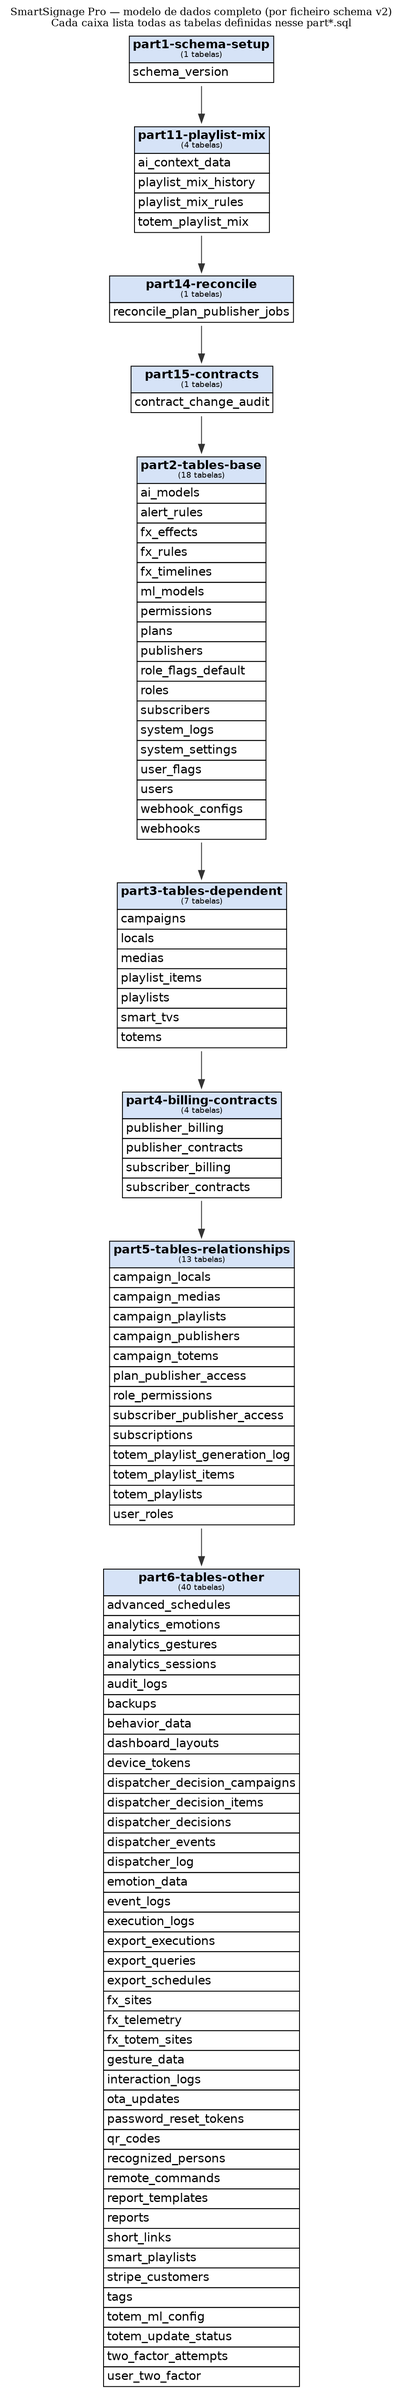
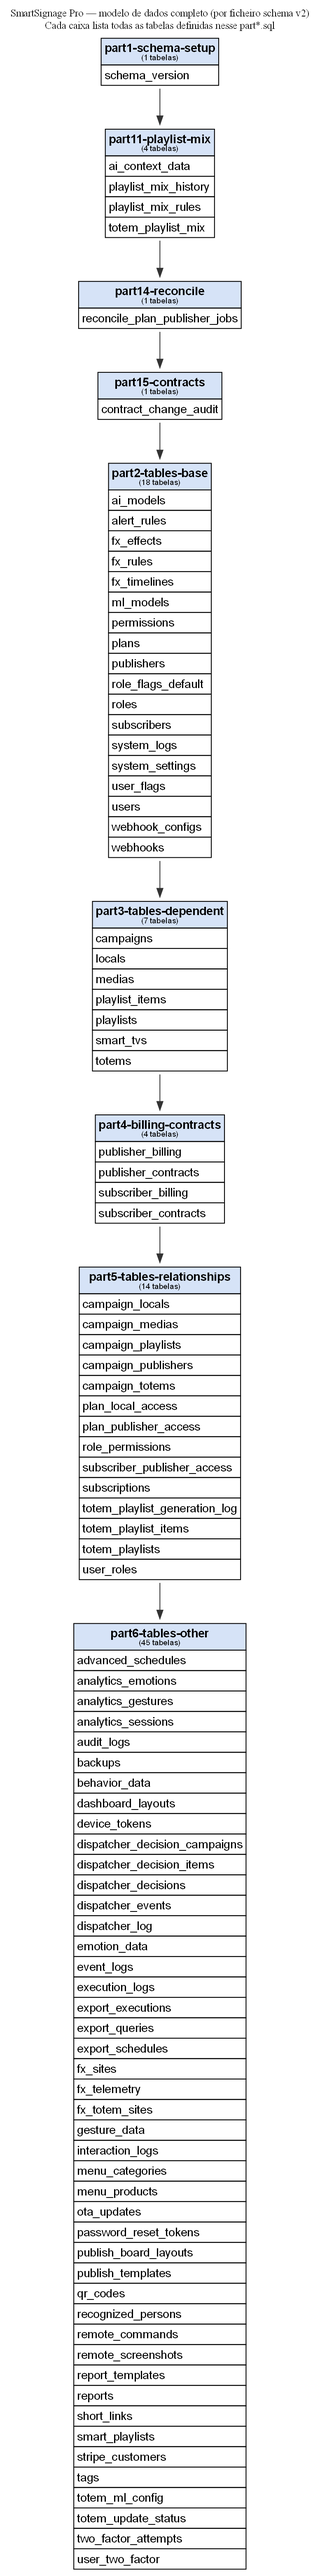
docs(er): atualiza modelo ER com controlo remoto e regenera PNG
Documenta player_settings/now_playing, remote_commands/screenshots e device_tokens; regenera diagramas a partir do schema v2.

diff --git a/scripts/generate-er-system-png.py b/scripts/generate-er-system-png.py
@@ -120,6 +120,14 @@ def write_detail_dot(clusters: dict[str, list[str]], table_to_part: dict[str, st
         ("totems", "totem_playlists"),
         ("totem_playlists", "totem_playlist_items"),
         ("totem_playlist_items", "medias"),
+        ("totems", "remote_commands"),
+        ("totems", "remote_screenshots"),
+        ("remote_commands", "remote_screenshots"),
+        ("users", "remote_commands"),
+        ("totems", "device_tokens"),
+        ("smart_tvs", "device_tokens"),
+        ("totems", "totem_update_status"),
+        ("ota_updates", "totem_update_status"),
         ("users", "user_roles"),
         ("user_roles", "roles"),
         ("roles", "role_permissions"),

diff --git a/docs/MODELO_ER_MIDIAS_SMART_TV_E_TOTENS.md b/docs/MODELO_ER_MIDIAS_SMART_TV_E_TOTENS.md
@@ -15,11 +15,12 @@ Alinha-se ao **schema definitivo** em `database/smartchannel-db-v2-refactored-pa
 |----------|-----------|
 | **Subscriber** | Dono das mídias, playlists e campanhas (`subscribers`). |
 | **Publisher** | Dono dos locais, totens e da infraestrutura física (`publishers`). |
-| **Totem** | Ponto de exibição / dispositivo de campo (`totems` → `locals` → `publishers`). |
+| **Totem** | Ponto de exibição / dispositivo de campo (`totems` → `locals` → `publishers`); espelho Player-AD em `player_settings` / `now_playing`. |
 | **Smart TV** | Ecrã ligado a um totem (relação **1 totem : N TVs**, `smart_tvs.totem_id`). |
 | **Mídia** | Ficheiro metadado em `medias` (sempre com `subscriber_id`). |
 | **Campanha** | Agrega conteúdo e regras de exibição (`campaigns`). |
 | **Playlist** | Lista ordenada de mídias (`playlists` + `playlist_items`). |
+| **Controlo remoto** | Comandos e capturas (`remote_commands`, `remote_screenshots`) + sessão do player (`device_tokens`). |
 
 O **dispatcher** escolhe campanhas elegíveis para um `totemId` e gera um **plano de reprodução** (JSON) consumido pelos players (`GET /api/player/dispatch`, ver `backend/src/routes/player.ts`).
 
@@ -49,8 +50,22 @@ Definidas em `database/smartchannel-db-v2-refactored-part5-tables-relationships.
 ### 2.3 Infraestrutura do publisher
 
 - **`locals`**: locais físicos do publisher.
-- **`totems`**: dispositivos por `local_id`.
-- **`smart_tvs`**: TVs associadas ao totem (`totem_id`), plataforma (`webOS`, `Tizen`, `Android TV`, …).
+- **`totems`**: dispositivos por `local_id`. Colunas relevantes para Player-AD / admin remota:
+  - `uin`, `device_id`, `status`, `last_heartbeat`
+  - **`player_settings`** (JSONB): espelho da config do player (`displayRotation`, `screenOrientation`, `kioskMode`, …)
+  - **`now_playing`** (JSONB): última mídia em reprodução reportada no heartbeat
+- **`smart_tvs`**: TVs associadas ao totem (`totem_id`), plataforma (`webOS`, `Tizen`, `Android TV`, …), `orientation` landscape/portrait.
+
+### 2.4 Controlo remoto, autenticação do player e OTA
+
+Definidas sobretudo em `database/smartchannel-db-v2-refactored-part6-tables-other.sql`:
+
+| Tabela | Função |
+|--------|--------|
+| **`remote_commands`** | Fila de comandos ao totem (`screenshot`, `apply_player_config`, `refresh_dispatch`, `purge_cache`, `restart_app`, …). |
+| **`remote_screenshots`** | Capturas de ecrã enviadas pelo Player-AD (`file_path`, opcionalmente ligadas a `command_id`). |
+| **`device_tokens`** | Token HMAC / sessão do player (`uin`, `device_id`, `platform`, heartbeat). |
+| **`ota_updates`** / **`totem_update_status`** | Pacotes OTA e estado de atualização por totem. |
 
 ---
 
@@ -76,10 +91,43 @@ erDiagram
   publishers ||--o{ locals : possui
   locals ||--o{ totems : possui
   totems ||--o{ smart_tvs : controla
+  totems ||--o{ totem_playlists : consolidada
+  totems ||--o{ remote_commands : recebe
+  totems ||--o{ remote_screenshots : captura
+  totems ||--o{ device_tokens : autentica
+  remote_commands ||--o{ remote_screenshots : gera
+  users ||--o{ remote_commands : cria
 
   campaigns }o--|| subscribers : pertence
   medias }o--|| subscribers : pertence
   playlists }o--|| subscribers : pertence
+
+  totems {
+    int totem_id PK
+    string uin
+    string device_id
+    jsonb player_settings
+    jsonb now_playing
+  }
+  remote_commands {
+    int command_id PK
+    int totem_id FK
+    string command_type
+    string status
+  }
+  remote_screenshots {
+    int id PK
+    int totem_id FK
+    int command_id FK
+    string file_path
+  }
+  device_tokens {
+    int device_token_id PK
+    int totem_id FK
+    string uin
+    string device_id
+    string token
+  }
 ```
 
 ---
@@ -118,26 +166,44 @@ Isto garante que campanhas com **só mídias diretas** ou **playlist + extras** 
 
 ---
 
-## 7. Leituras relacionadas
+## 7. Player-AD: orientação, config remota e screenshot
+
+Alinhado ao plano em [`PLANO-TOTEM-ORIENTACAO-CONFIG-REMOTA-SCREENSHOT.md`](./PLANO-TOTEM-ORIENTACAO-CONFIG-REMOTA-SCREENSHOT.md) e ao schema `totems` / `remote_*`:
+
+| Fluxo | Tabelas / campos |
+|-------|------------------|
+| Montagem do painel no player | Config local do app + espelho em `totems.player_settings` (`displayRotation` / `screenOrientation`) |
+| Comando remoto (config, sync, captura) | `remote_commands` (`apply_player_config`, `screenshot`, `refresh_dispatch`, …) |
+| Preview no painel web | `remote_screenshots` (ficheiro no storage do servidor) |
+| Presença / token | `device_tokens` + `totems.last_heartbeat` / `now_playing` |
+
+Defaults de kit de instalação (exemplo): `uin=T1000`, `deviceId=T1000-Exterminator` — ver `install-pendrive/config/exemplo-player-config.json`.
+
+---
+
+## 8. Leituras relacionadas
 
 | Documento | Tema |
 |-----------|------|
 | [`duas-formas-propaganda-chegar-ao-totem.md`](./duas-formas-propaganda-chegar-ao-totem.md) | Elegibilidade campanha ↔ totem |
 | [`cadastro-atrelar-campanha-totem.md`](./cadastro-atrelar-campanha-totem.md) | UI: abas Publicadores / Totens |
 | [`analise-dispatcher-midias-vazias-e-duplicados.md`](./analise-dispatcher-midias-vazias-e-duplicados.md) | Mix e listas vazias |
+| [`PLANO-TOTEM-ORIENTACAO-CONFIG-REMOTA-SCREENSHOT.md`](./PLANO-TOTEM-ORIENTACAO-CONFIG-REMOTA-SCREENSHOT.md) | Orientação, admin remota, screenshot |
+| [`platform/06-totemdigital-monousuario-er-e-fluxo.md`](./platform/06-totemdigital-monousuario-er-e-fluxo.md) | ER Pro vs TotemDigital monousuário |
 | [`INTEGRACAO_SCHEMA_PRINCIPAL.md`](./INTEGRACAO_SCHEMA_PRINCIPAL.md) | Política schema sem migrations paliativas |
 | [`README_INSTALACAO_SERVIDOR.md`](./README_INSTALACAO_SERVIDOR.md) | Instalação |
 | [`PORTAS_E_SERVICOS_EXCLUSIVOS.md`](./PORTAS_E_SERVICOS_EXCLUSIVOS.md) | Portas e serviços |
 
 ---
 
-## 8. Evolução e validação (v6)
+## 9. Evolução e validação (v6)
 
 - **Seeds / dados demo:** `database/carga-inicial-v6.sql`
 - **Validação pós-instalação:** `node database/validate-v6.js` (requer `pg`; pode usar `NODE_PATH` apontando para `backend/node_modules`)
+- **Regenerar PNG ER:** `python scripts/generate-er-system-png.py --detalhe` (requer Graphviz `dot`)
 
 Desenvolvimento: apenas árvore principal (`backend/`, `frontend/`, `database/`, `scripts/`). Cópias paralelas `ssp-clean` e `client_v2` foram removidas do repositório.
 
 ---
 
-**Última revisão:** abril de 2026.
+**Última revisão:** julho de 2026.

diff --git a/docs/platform/06-totemdigital-monousuario-er-e-fluxo.md b/docs/platform/06-totemdigital-monousuario-er-e-fluxo.md
@@ -11,7 +11,7 @@ Os diagramas Mermaid abaixo são **resumos conceituais**. Para **todas** as tabe
 - [SmartSignage-ER-sistema-completo.png](../diagrams/SmartSignage-ER-sistema-completo.png) — visão por ficheiros `part` (panorama).
 - [SmartSignage-ER-sistema-completo-detalhe.png](../diagrams/SmartSignage-ER-sistema-completo-detalhe.png) — um nó por tabela + parte das FKs (melhor com **zoom**).
 
-**TotemDigital no PNG:** concentre o zoom nos nós que fecham o ciclo operacional deste documento — por exemplo `totems`, `totem_playlists`, `totem_playlist_items`, `campaigns`, `campaign_totems`, `medias`, `playlists`, `playlist_items`, `locals`, `publishers`. Regeneração dos PNG: ver índice em [`docs/README.md`](../README.md) (secção “Diagramas (PNG)”).
+**TotemDigital no PNG:** concentre o zoom nos nós que fecham o ciclo operacional deste documento — por exemplo `totems`, `totem_playlists`, `totem_playlist_items`, `campaigns`, `campaign_totems`, `medias`, `playlists`, `playlist_items`, `locals`, `publishers`, e para admin remota/`Player-AD`: `remote_commands`, `remote_screenshots`, `device_tokens`. Regeneração dos PNG: ver índice em [`docs/README.md`](../README.md) (secção “Diagramas (PNG)”).
 
 ---
 
@@ -52,7 +52,10 @@ erDiagram
   TOTEMS {
     int id PK
     string uin
+    string device_id
     int local_id FK
+    jsonb player_settings
+    jsonb now_playing
   }
   CAMPAIGNS {
     int id PK
@@ -64,6 +67,18 @@ erDiagram
     int totem_id FK
     boolean is_active
   }
+  REMOTE_COMMANDS {
+    int command_id PK
+    int totem_id FK
+    string command_type
+  }
+  DEVICE_TOKENS {
+    int device_token_id PK
+    int totem_id FK
+    string token
+  }
+  TOTEMS ||--o{ REMOTE_COMMANDS : controlo
+  TOTEMS ||--o{ DEVICE_TOKENS : sessao
 ```
 
 ### 1.2 TotemDigital — monousuário (mesmo núcleo, menos superfície operacional)
@@ -85,7 +100,10 @@ erDiagram
   TOTEMS {
     int id PK
     string uin
+    string device_id
     int local_id FK
+    jsonb player_settings
+    jsonb now_playing
   }
   TOTEM_PLAYLISTS {
     int id PK
@@ -100,9 +118,15 @@ erDiagram
     int campaign_id FK
     int totem_id FK
   }
+  REMOTE_COMMANDS {
+    int command_id PK
+    int totem_id FK
+    string command_type
+  }
+  TOTEMS ||--o{ REMOTE_COMMANDS : screenshot_config
 ```
 
-**Leitura:** o diagrama “depois” **não** apaga tabelas Pro; resume o que o operador TotemDigital toca com frequência. Campanhas e mix continuam a ser a **origem rica de candidatos** quando usadas.
+**Leitura:** o diagrama “depois” **não** apaga tabelas Pro; resume o que o operador TotemDigital toca com frequência. Campanhas e mix continuam a ser a **origem rica de candidatos** quando usadas. Controlo remoto (`remote_commands` / `remote_screenshots`) e espelho `player_settings` suportam o Player-AD sem alterar o núcleo de dispatch.
 
 ---
 
@@ -178,8 +202,11 @@ sequenceDiagram
 |------|------|
 | Fallback servidor | `backend/src/services/dispatcherTotemService.ts` — campanha → `getFallbackPlanFromTotemPlaylist` (ou equivalente) — **sem** `getDefaultAdPlan` por disco |
 | Playlist por totem | Tabelas `totem_playlists`, `totem_playlist_items` |
+| Config / now playing | `totems.player_settings`, `totems.now_playing` (`part3`) |
+| Controlo remoto | `remote_commands`, `remote_screenshots`, `device_tokens` (`part6`) |
 | Seed monousuário | `database/carga-inicial-v6.sql` |
 | Modo compacto | Flags `TOTEMDIGITAL_COMPACT` (backend) e `REACT_APP_TOTEMDIGITAL_COMPACT` (frontend) para esconder superfície Pro e manter operação essencial |
+| Modelo ER mídias/totens | [`MODELO_ER_MIDIAS_SMART_TV_E_TOTENS.md`](../MODELO_ER_MIDIAS_SMART_TV_E_TOTENS.md) |
 
 ---
 

diff --git a/docs/PLANO-TOTEM-ORIENTACAO-CONFIG-REMOTA-SCREENSHOT.md b/docs/PLANO-TOTEM-ORIENTACAO-CONFIG-REMOTA-SCREENSHOT.md
@@ -10,7 +10,7 @@
 | Campo | Valor padrão |
 |-------|----------------|
 | `uin` | `T1000` |
-| `deviceId` (nome no painel) | `T1000 - Exterminator` |
+| `deviceId` (nome no painel) | `T1000-Exterminator` |
 | `allowPlaybackAudio` | `false` (áudio desligado) |
 | `batimentoCardiaco` | `15` (segundos) |
 | `displayRotation` | `0` (retrato) |
@@ -256,7 +256,7 @@ Histórico no **servidor** (quem / quando / versão pedida) pode ficar só em `r
 - [x] Config remota `config` / orientação na UI
 - [x] Now playing no heartbeat + chip no painel
 - [x] OTA stubs (`update` / `ota_rollback`) + pasta `files/OTA` (máx. 3 backups)
-- [ ] Defaults kit: `uin=T1000`, `deviceId=T1000 - Exterminator`, áudio off, heartbeat 15s
+- [ ] Defaults kit: `uin=T1000`, `deviceId=T1000-Exterminator`, áudio off, heartbeat 15s
 
 ---
 
@@ -268,4 +268,4 @@ Histórico no **servidor** (quem / quando / versão pedida) pode ficar só em `r
 
 ---
 
-*Última actualização: 2026-07-19 — defaults instalação T1000 / Exterminator / áudio off / heartbeat 15s; bake v3 + Player-AD; validar em hardware.*
+*Última actualização: 2026-07-21 — defaults instalação T1000 / T1000-Exterminator / áudio off / heartbeat 15s; bake v3 + Player-AD; modelo ER docs regenerados.*

diff --git a/docs/README.md b/docs/README.md
@@ -19,7 +19,7 @@ Regenerar: `python3 scripts/generate-er-system-png.py` ou com detalhe: `python3 
 
 | Documento | Descrição |
 |-----------|-----------|
-| [**MODELO_ER_MIDIAS_SMART_TV_E_TOTENS.md**](./MODELO_ER_MIDIAS_SMART_TV_E_TOTENS.md) | **Modelo ER** atual: `medias`, `campaigns`, `campaign_medias`, `campaign_playlists`, `totems`, `smart_tvs`, dispatch consolidado. |
+| [**MODELO_ER_MIDIAS_SMART_TV_E_TOTENS.md**](./MODELO_ER_MIDIAS_SMART_TV_E_TOTENS.md) | **Modelo ER** atual: `medias`, `campaigns`, `totems` (`player_settings`/`now_playing`), `remote_commands`/`remote_screenshots`, `device_tokens`, dispatch consolidado. |
 | [**duas-formas-propaganda-chegar-ao-totem.md**](./duas-formas-propaganda-chegar-ao-totem.md) | Elegibilidade campanha ↔ totem (contrato/plano vs `campaign_totems`). |
 | [**cadastro-atrelar-campanha-totem.md**](./cadastro-atrelar-campanha-totem.md) | UI: abas Publicadores e Totens. |
 | [**analise-dispatcher-midias-vazias-e-duplicados.md**](./analise-dispatcher-midias-vazias-e-duplicados.md) | Mix, listas vazias e duplicados. |
